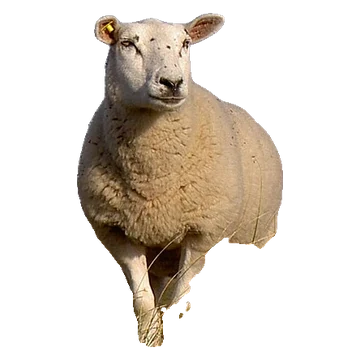
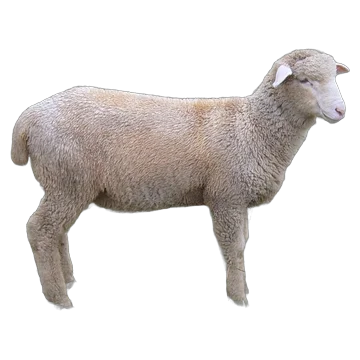
Guncelleme Çar 18.11.2026 11:27

diff --git a/js/act/bubbles.js b/js/act/bubbles.js
@@ -1,0 +1,162 @@
+/* =========================================================
+   BALONCUK PATLAT (su altı) — denizin dibinden sabun köpüğü gibi
+   parlak baloncuklar yükselir; dokununca "blop" diye patlar.
+   - Boş baloncuk: sırayla sayılır (Bir! İki! ... On! → kutlama)
+   - İçinde deniz hayvanı olan baloncuk: hayvan kurtulup yüzerek gider,
+     gerçek sesi (balina, fok, penguen) ve adı söylenir; renkli köpek balığının rengi söylenir.
+   Sesler sıraya girer: üst üste binmez, sayılar atlanmaz (Kedi Koşusu ile aynı düzen).
+   Tanıtım yok — oyun hemen başlar (Cem'in isteği).
+   ========================================================= */
+G.activities.bubbles = () => {
+  const { $, rand } = G;
+  const id = G.newFlow();
+
+  // Baloncuklardan çıkan deniz hayvanları (yalnızca gerçek sesi/adı kayıtlı olanlar)
+  const SHARK_COLORS = COLORS.filter(c => ['red', 'blue', 'yellow', 'green', 'orange', 'pink', 'purple'].includes(c.key));
+  const SEA = [
+    { e: '🐋', snd: 'whale', tr: 'Balina', en: 'Whale', face: 1 },
+    { e: '🦭', snd: 'seal', tr: 'Fok', en: 'Seal', face: -1 },
+    { e: '🐧', snd: 'penguin', tr: 'Penguen', en: 'Penguin', face: 0 }
+  ];
+  function randomFriend() {
+    if (Math.random() < 0.55) {
+      const c = rand(SHARK_COLORS);
+      return { src: tintSrc('shark', c.key), tr: c.tr + ' köpek balığı', en: c.en + ' shark', face: 1 };
+    }
+    const s = rand(SEA);
+    return { src: imgSrc(s.e), snd: s.snd, tr: s.tr, en: s.en, face: s.face };
+  }
+
+  // Ses ve konuşmaları önceden yükle (ilk dokunuşta gecikme olmasın)
+  AnimalSounds.preload(SEA.map(s => s.snd));
+  Speech.preload(COUNT_TR.map(n => [n + '!', 'tr-TR']).concat(COUNT_EN.map(n => [n + '!', 'en-US']))
+    .concat(SEA.map(s => [s.tr + '!', 'tr-TR']), SEA.map(s => [s.en + '!', 'en-US']))
+    .concat(SHARK_COLORS.map(c => [c.tr + ' köpek balığı!', 'tr-TR']), SHARK_COLORS.map(c => [c.en + ' shark!', 'en-US'])));
+
+  let deco = '';
+  for (let i = 0; i < 16; i++) deco += `<span class="ocean-bubble" style="left:${Math.random() * 100}%;animation-delay:${-Math.random() * 7}s;--s:${0.4 + Math.random() * 0.8}"></span>`;
+  const root = G.screen('bubblegame theme-ocean', G.topbar(`${pic('🫧', 'title-ic')} Baloncuk Patlat <small>Pop the Bubbles</small>`,
+    `<div class="counter" id="cnt"><b>0</b><span class="mini-bubble"></span></div>`) + `
+    <div class="ocean-deco"><div class="rays"></div>${deco}
+      <div class="bg-fish f1">${pic('🐠')}</div><div class="bg-fish f2">${pic('🐟')}</div><div class="bg-fish f3">${pic('🐠')}</div>
+      <div class="seabed">${pic('🪸', 'sb s1')}${pic('🌿', 'sb s2')}${pic('🐚', 'sb s3')}${pic('🪸', 'sb s4')}${pic('🐙', 'sb s5')}${pic('🦀', 'sb s6')}</div>
+    </div>
+    <div class="pop-field" id="field"></div>`);
+  G.bindHome(root);
+  const field = $('#field');
+  const bubbles = [];
+  let count = 0, nextSpawn = 0.2, last = performance.now();
+
+  /* Ses kuyruğu (en fazla 6 iş) */
+  let queue = Promise.resolve(), pending = 0;
+  function enqueue(job) {
+    if (pending >= 6) return false;
+    pending++;
+    queue = queue.then(async () => {
+      try { if (G.alive(id)) await job(); } catch (e) { /* yoksay */ }
+      pending--;
+    });
+    return true;
+  }
+
+  function spawn() {
+    const size = 110 + Math.random() * 100;
+    const el = document.createElement('button');
+    el.className = 'sbubble';
+    const friend = Math.random() < 0.25 ? randomFriend() : null;
+    el.innerHTML = '<span class="shine"></span>' + (friend ? `<img class="inside" src="${friend.src}" alt="" draggable="false">` : '');
+    el.style.width = size + 'px';
+    el.style.height = size + 'px';
+    el.style.setProperty('--hue', Math.floor(Math.random() * 360) + 'deg');
+    field.appendChild(el);
+    const b = {
+      el, friend, size,
+      x: 0.08 + Math.random() * 0.84, y: field.clientHeight + size,
+      vy: 55 + Math.random() * 55 + Math.min(count, 30), age: 0,
+      ph: Math.random() * 6, sway: 14 + Math.random() * 20, dead: false
+    };
+    el.addEventListener('pointerdown', (e) => {
+      e.preventDefault();
+      if (b.y > field.clientHeight - b.size * 0.6) return; // baloncuk henüz görünmüyor
+      popIt(b);
+    });
+    bubbles.push(b);
+  }
+
+  function popIt(b) {
+    if (b.dead) return;
+    b.dead = true;
+    Sounds.bubble();
+    const r = b.el.getBoundingClientRect();
+    const cx = r.left + r.width / 2, cy = r.top + r.height / 2;
+    // minik köpükler etrafa saçılır
+    for (let i = 0; i < 12; i++) {
+      const d = document.createElement('div');
+      d.className = 'froth';
+      const s = 8 + Math.random() * 16;
+      d.style.width = d.style.height = s + 'px';
+      d.style.left = cx + 'px';
+      d.style.top = cy + 'px';
+      const a = Math.random() * Math.PI * 2, dist = r.width * (0.35 + Math.random() * 0.45);
+      d.style.setProperty('--tx', Math.cos(a) * dist + 'px');
+      d.style.setProperty('--ty', Math.sin(a) * dist - 30 + 'px');
+      G.fx.appendChild(d);
+      setTimeout(() => d.remove(), 800);
+    }
+    b.el.classList.add('popped');
+    setTimeout(() => b.el.remove(), 260);
+
+    if (b.friend) {
+      const f = b.friend;
+      // hayvan kurtulur, ekranın kenarına doğru yüzer
+      const dir = cx < innerWidth / 2 ? -1 : 1;
+      const sw = document.createElement('div');
+      sw.className = 'swim-away';
+      sw.innerHTML = `<img src="${f.src}" alt="" draggable="false">`;
+      sw.style.left = cx + 'px';
+      sw.style.top = cy + 'px';
+      sw.style.setProperty('--dx', dir * (innerWidth * 0.7) + 'px');
+      sw.style.setProperty('--flip', f.face && f.face !== dir ? -1 : 1);
+      G.fx.appendChild(sw);
+      setTimeout(() => sw.remove(), 3000);
+      enqueue(async () => {
+        if (f.snd) { await AnimalSounds.play(f.snd); if (!G.alive(id)) return; }
+        await Speech.seq(G.both(f.tr + '!', f.en + '!'));
+      });
+      return;
+    }
+
+    // boş baloncuk: sayı (kuyruk doluysa sayı atlanmaz, hiç eklenmez)
+    const n = count + 1 > 10 ? 1 : count + 1;
+    if (!enqueue(async () => {
+      await Speech.seq(G.both(COUNT_TR[n - 1] + '!', COUNT_EN[n - 1] + '!'));
+      if (n === 10 && G.alive(id)) { G.confetti(90); await G.celebrate({ big: true }); }
+    })) return;
+    count = n;
+    const cnt = $('#cnt b');
+    if (cnt) { cnt.textContent = count; G.anim($('#cnt'), 'boom'); }
+  }
+
+  function loop(now) {
+    if (!G.alive(id)) return;
+    const dt = Math.min(0.05, (now - last) / 1000);
+    last = now;
+    nextSpawn -= dt;
+    if (nextSpawn <= 0 && bubbles.length < 8) { spawn(); nextSpawn = 0.6 + Math.random() * 0.7; }
+    const W = field.clientWidth, H = field.clientHeight;
+    for (let i = bubbles.length - 1; i >= 0; i--) {
+      const b = bubbles[i];
+      if (b.dead) { bubbles.splice(i, 1); continue; }
+      // alttan hızlı çıkar, sonra yavaşça yükselir (ekrana girmeden patlatılamaz)
+      b.age += dt;
+      b.y -= (b.vy + H * 1.1 * Math.exp(-b.age * 3)) * dt;
+      b.ph += dt * 1.8;
+      const x = b.x * W + Math.sin(b.ph) * b.sway - b.size / 2;
+      const sq = 1 + Math.sin(b.ph * 2.3) * 0.04; // baloncuk hafifçe esner
+      b.el.style.transform = `translate(${x}px, ${b.y}px) scale(${sq}, ${2 - sq})`;
+      if (b.y < -b.size * 1.4) { b.el.remove(); bubbles.splice(i, 1); }
+    }
+    requestAnimationFrame(loop);
+  }
+  requestAnimationFrame(loop);
+};

diff --git a/css/style.css b/css/style.css
@@ -607,3 +607,32 @@ img { -webkit-user-drag: none; }
 .tile-placeholder { opacity: .25; outline: 4px dashed rgba(255,255,255,.9); outline-offset: -6px; }
 .order-hint { text-align: center; opacity: .7; font-size: clamp(12px, 1.8vmin, 15px); margin: 18px 0 6px; }
 .tiles .tile { -webkit-touch-callout: none; user-select: none; }
+
+/* ---------- Baloncuk Patlat (su altı) ---------- */
+.bubblegame { padding: 0; }
+.bubblegame .topbar { padding: 10px 14px 0; position: relative; z-index: 5; }
+.bubblegame .pop-field { z-index: 3; }
+.mini-bubble { display: inline-block; width: 1.1em; height: 1.1em; border-radius: 50%; margin-left: 6px; vertical-align: -0.15em;
+  border: 2px solid rgba(120,200,255,.9); background: radial-gradient(circle at 32% 30%, #fff 0 18%, rgba(160,220,255,.35) 40%, transparent 70%); }
+.sbubble { position: absolute; left: 0; top: 0; padding: 0; border-radius: 50%; will-change: transform; overflow: hidden;
+  border: 3px solid rgba(255,255,255,.75);
+  background:
+    radial-gradient(circle at 50% 55%, transparent 52%, hsla(calc(var(--hue) + 0deg), 90%, 75%, .45) 64%, hsla(calc(var(--hue) + 120deg), 90%, 75%, .55) 72%, transparent 76%),
+    radial-gradient(circle at 50% 50%, rgba(255,255,255,.08), rgba(255,255,255,.22) 70%, rgba(255,255,255,.55) 100%);
+  box-shadow: inset 0 0 18px rgba(255,255,255,.45), 0 6px 18px rgba(0,30,80,.18); }
+.sbubble .shine { position: absolute; left: 18%; top: 14%; width: 30%; height: 20%; border-radius: 50%;
+  background: radial-gradient(ellipse at center, rgba(255,255,255,.95), rgba(255,255,255,0) 70%); transform: rotate(-30deg); }
+.sbubble::after { content: ''; position: absolute; right: 20%; bottom: 16%; width: 12%; height: 12%; border-radius: 50%; background: rgba(255,255,255,.6); }
+.sbubble .inside { position: absolute; left: 15%; top: 15%; width: 70%; height: 70%; object-fit: contain; animation: wiggle 2.2s ease-in-out infinite; }
+.sbubble.popped { opacity: 0; transition: opacity .2s, width .2s, height .2s; }
+.froth { position: absolute; border-radius: 50%; margin: -8px 0 0 -8px; border: 2px solid rgba(255,255,255,.85);
+  background: radial-gradient(circle at 30% 30%, rgba(255,255,255,.8), transparent 60%); animation: burst .8s ease-out forwards; z-index: 50; }
+.swim-away { position: absolute; width: 150px; height: 150px; margin: -75px 0 0 -75px; z-index: 40; animation: swimAway 2.9s ease-in forwards; }
+.swim-away img { width: 100%; height: 100%; object-fit: contain; transform: scaleX(var(--flip, 1)); animation: wiggle 1s ease-in-out infinite; }
+@keyframes swimAway { 0% { transform: translate(0, 0) scale(.6); opacity: 0; } 12% { transform: translate(0, -10px) scale(1.15); opacity: 1; }
+  35% { transform: translate(calc(var(--dx) * .15), 0) scale(1.1); } 100% { transform: translate(var(--dx), -40px) scale(1); opacity: 0; } }
+.bg-fish { position: absolute; width: clamp(50px, 9vmin, 90px); height: clamp(50px, 9vmin, 90px); opacity: .8; animation: bgSwim 18s linear infinite; }
+.bg-fish .pic { width: 100%; height: 100%; }
+.bg-fish.f1 { top: 30%; } .bg-fish.f2 { top: 52%; animation-duration: 24s; animation-delay: -9s; } .bg-fish.f3 { top: 68%; animation-duration: 21s; animation-delay: -15s; }
+@keyframes bgSwim { from { transform: translateX(110vw); } to { transform: translateX(-20vw); } }
+.bubblegame .counter { color: var(--ink); }

diff --git a/sw.js b/sw.js
@@ -3,8 +3,8 @@
    - Görsel ve sesler: önce önbellek (anında açılır), yoksa indirip saklar
    - Kurulumdan sonra tüm görseller ve efekt sesleri arka planda yavaşça indirilir
    SURUM değeri tools/sw_liste.py ile otomatik güncellenir. */
-const SURUM = '1717303fca';
-const KOD = 'alen-kod-' + SURUM, MEDYA = 'alen-medya-v1';
+const SURUM = 'dbee09d7fa';
+const KOD = 'alen-kod-' + SURUM, MEDYA = 'alen-medya-v2';
 importScripts('sw_liste.js');
 
 const KABUK = ['./', 'index.html', 'css/style.css', 'manifest.json', 'audio/voice/index.js',
@@ -18,7 +18,7 @@ self.addEventListener('install', e => {
 self.addEventListener('activate', e => {
   e.waitUntil((async () => {
     const adlar = await caches.keys();
-    await Promise.all(adlar.filter(a => a.startsWith('alen-kod-') && a !== KOD).map(a => caches.delete(a)));
+    await Promise.all(adlar.filter(a => a !== KOD && a !== MEDYA).map(a => caches.delete(a)));
     await self.clients.claim();
     isit(); // arka planda görselleri/efektleri indir
   })());

diff --git a/js/animalsounds.js b/js/animalsounds.js
@@ -3,7 +3,7 @@
    Bilgisayarla üretilmiş (sentez) ses yoktur. Gerçek kaydı olmayan
    anahtar sessiz geçer; böyle bir hayvan oyuna eklenmemelidir.
    Kaynaklar:
-   - ESC-50 veri seti (K. J. Piczak): dog, cat, cow, sheep, hen, rooster, frog, pig, crow,
+   - ESC-50 veri seti (K. J. Piczak): dog, cat, cow, sheep, hen, rooster, frog, crow,
      chirping_birds, insects, car_horn, siren, train, airplane, helicopter, clapping
    - BBC Sound Effects (RemArc lisansı, kişisel/ev kullanımı): duck, horse, lion,
      elephant, monkey, owl, chick, howl, bear, fox, goat, donkey, turkey, goose, wolf, tiger, cuckoo,
@@ -39,7 +39,6 @@ const AnimalSounds = (() => {
     fox: { f: ['fox_1', 'fox_2'] },
     frog: { f: ['frog_1', 'frog_3'] },
     goat: { f: ['goat_1', 'goat_2'] },
-    pig: { f: ['pig_1', 'pig_2', 'pig_3'] },
     donkey: { f: ['donkey_1', 'donkey_2'] },
     turkey: { f: ['turkey_1'] },
     goose: { f: ['goose_1'] },

diff --git a/js/data.js b/js/data.js
@@ -44,7 +44,6 @@ const ANIMALS = [
   { tr: 'Arı', en: 'Bee', emoji: '🐝', sound: 'Vızzz!', snd: 'bee' },
   { tr: 'Tilki', en: 'Fox', emoji: '🦊', snd: 'fox' },
   { tr: 'Keçi', en: 'Goat', emoji: '🐐', snd: 'goat' },
-  { tr: 'Domuz', en: 'Pig', emoji: '🐷', snd: 'pig' },
   { tr: 'Eşek', en: 'Donkey', emoji: '🫏', snd: 'donkey' },
   { tr: 'Hindi', en: 'Turkey', emoji: '🦃', snd: 'turkey' },
   { tr: 'Kaz', en: 'Goose', emoji: '🪿', snd: 'goose' },
@@ -292,6 +291,7 @@ const ACTIVITIES = [
   { id: 'homes', tr: 'Hayvan Evleri', en: 'Animal Homes', icon: '🏡' },
   { id: 'sling', tr: 'Sapan', en: 'Slingshot', icon: '🎯' },
   { id: 'pop', tr: 'Balon Patlat', en: 'Pop Balloons', icon: '🎈' },
+  { id: 'bubbles', tr: 'Baloncuk Patlat', en: 'Pop the Bubbles', icon: '🫧' },
   { id: 'blow', tr: 'Balonu Üfle', en: 'Blow It Up', icon: '🌬' }
 ];
 

diff --git a/js/sounds.js b/js/sounds.js
@@ -94,6 +94,16 @@ const Sounds = (() => {
     tone(600, 0, 0.12, 'sine', 0.2, 120);
   }
 
+  // Su altı baloncuk "blop" sesi: yükselen yumuşak ton + çok kısa su şıpırtısı
+  function bubble() {
+    init();
+    if (!ctx) return;
+    const f = 260 + Math.random() * 160;
+    tone(f, 0, 0.13, 'sine', 0.32, f * 3.2);
+    tone(f * 1.5, 0.02, 0.08, 'sine', 0.12, f * 4);
+    noise(0.01, 0.06, 0.12, 1800, 1.2);
+  }
+
   // Dokunma sesi
   function tap() {
     init();
@@ -124,7 +134,7 @@ const Sounds = (() => {
   }
 
   return {
-    init, applause, fanfare, wrong, pop, tap, whoosh, crunch, gulp,
+    init, applause, fanfare, wrong, pop, bubble, tap, whoosh, crunch, gulp,
     getCtx: () => { init(); return ctx; },
     getNoise: () => { init(); return noiseBuf; },
     hasFile: () => false,

diff --git a/index.html b/index.html
@@ -49,6 +49,7 @@
   <script src="js/act/sling.js"></script>
   <script src="js/act/blow.js"></script>
   <script src="js/act/pop.js"></script>
+  <script src="js/act/bubbles.js"></script>
   <!-- Başlangıç (en son) -->
   <script src="js/home.js"></script>
   <!-- Oyunu cihaza kaydet: sonraki açılışlar anında, görseller/sesler önbellekten -->

diff --git a/js/images.js b/js/images.js
@@ -181,7 +181,6 @@ Object.assign(IMG, {
   "🐈⬛": "real/blackcat",
   "🦈": "real/shark",
   "🐐": "real/goat",
-  "🐷": "real/pig",
   "🫏": "real/donkey",
   "🦃": "real/turkey",
   "🪿": "real/goose",

diff --git a/GELISTIRME_GUNLUGU.md b/GELISTIRME_GUNLUGU.md
@@ -4,6 +4,51 @@
 
 ---
 
+## Aşama 14 — Yeni oyun: Baloncuk Patlat (su altı)
+**Tarih:** 18.11.2026
+
+**İstek (Cem):** Oyuna bir de suyun altında baloncuk patlatma oyunu ekleyelim.
+
+**Yapılanlar:**
+- `js/act/bubbles.js`: okyanus sahnesi (ışık huzmeleri, kum, mercan, yengeç, ahtapot, arkada yüzen balıklar).
+  Dipten gökkuşağı yansımalı sabun köpüğü baloncuklar yükselir, hafifçe esner. Balon Patlat'taki gibi önce hızlı çıkar,
+  sonra yavaşlar; ekrana girmeden patlatılamaz.
+- Dokununca "blop" sesiyle patlar, etrafa minik köpükler saçılır. Boş baloncuklar sırayla sayılır (Bir... On → kutlama).
+- Baloncukların %25'inde deniz hayvanı vardır: renkli köpek balığı (rengiyle söylenir), balina, fok, penguen
+  (gerçek sesi + adı). Patlayınca hayvan kurtulup ekranın kenarına doğru yüzer.
+- Sesler kuyrukta (en fazla 6): üst üste binmez, sayılar atlanmaz. Tanıtım konuşması yok; oyun hemen başlar.
+- Yeni konuşma kaydı gerekmedi: sayılar, hayvan adları ve renkli köpek balıkları zaten Piku ile kayıtlıydı.
+- `Sounds.bubble()`: kısa yükselen "blop" efekti (konuşma değil, efekt).
+- Ana sayfaya "Baloncuk Patlat 🫧" kartı eklendi. Kaydedilmiş sıralamada yoksa sona eklenir, basılı tutup taşınabilir.
+
+**Değişen dosyalar:** `js/act/bubbles.js` (yeni), `js/sounds.js`, `js/data.js`, `index.html`, `css/style.css`, `sw.js`/`sw_liste.js`,
+README, DEVAM_NOTLARI, bu günlük.
+
+**Test durumu:** Headless Chrome, 400×800 ve 1024×700: ~33 baloncuk patlatıldı, sayılar sırayla, hayvan sesleri ve adları
+çaldı, sayfa hatası yok. Ekran görüntüleri kontrol edildi.
+
+---
+
+## Aşama 13 — Domuz kaldırıldı, koyun fotoğrafı yenilendi
+**Tarih:** 18.11.2026
+
+**İstek (Cem):** "Kim bu"da domuzun sesi çıkmıyor, domuzu tamamen kaldır. Koyunun arka bacakları yok.
+
+**Yapılanlar:**
+- Domuz `ANIMALS` listesinden, `animalsounds.js` REAL haritasından ve `images.js` gerçek fotoğraf bloğundan çıkarıldı → 36 hayvan.
+  (`pig_*.mp3` ve `real/pig.webp` dosyaları klasörde duruyor ama artık kullanılmıyor.)
+- Koyun: eski fotoğrafta arka bacaklar otun içinde kayboluyordu. Wikimedia Commons'tan yandan çekilmiş, dört bacağı görünen
+  Columbia kuzusu (Ewe lamb, Columbia breed.jpg) alındı, rembg ile arka planı temizlendi → `assets/img/real/sheep.webp`. KAYNAK.txt güncellendi.
+- Aynı adlı görsel değiştiği için servis çalışanının medya önbelleği `alen-medya-v2` yapıldı; eski önbellek otomatik silinir.
+
+**Değişen dosyalar:** `js/data.js`, `js/animalsounds.js`, `js/images.js`, `assets/img/real/sheep.webp`, `assets/img/real/KAYNAK.txt`,
+`sw.js`, `sw_liste.js`, DEVAM_NOTLARI, bu günlük.
+
+**Test durumu:** Headless Chrome: 36 hayvan, domuz yok, sesi olmayan hayvan yok; Kim Bu Ses?, Hayvanlar, Hayvan Evleri,
+Yumurtalar hatasız açıldı. Yeni koyun görseli kontrol edildi (dört bacak görünür).
+
+---
+
 ## Aşama 12 — Hız: sesler gecikmesiz, açılış ve görseller hızlı (ortak ses motoru + önbellek)
 **Tarih:** 18.11.2026
 

diff --git a/README.md b/README.md
@@ -18,7 +18,7 @@ yanlışta kısa **"Hayıııır!"** (hemen yeniden denenebilir). 2 yanlıştan 
 | Renkler | 10 renk, havada süzülen 3D balonlarla |
 | Sayılar | 1–10, **parmaklarla tek tek sayarak** |
 | Kediler | Mutlu, gülen, seven, şaşkın, üzgün, kızgın kediler — her biri farklı tonda miyavlar |
-| Hayvanlar | 37 hayvan (hepsi gerçek sesli ve gerçek fotoğraflı); önce hayvanın **gerçek sesi**, sonra adı söylenir |
+| Hayvanlar | 36 hayvan (hepsi gerçek sesli ve gerçek fotoğraflı); önce hayvanın **gerçek sesi**, sonra adı söylenir |
 | Kim Bu Ses? | Hayvan sesi çalar, çocuk sesin sahibini bulur |
 | Köpek Balıkları | Okyanus sahnesinde yüzen **renkli köpek balıkları** |
 | Arabalar | Polis, ambulans, itfaiye (siren), taksi, yarış arabası, renkli arabalar |
@@ -39,6 +39,7 @@ yanlışta kısa **"Hayıııır!"** (hemen yeniden denenebilir). 2 yanlıştan 
 | **Yumurta Sürprizi** | Renkli yumurtaya **bir kez** dokun, çatlasın; içinden civciv, ördek, kedi, baykuş... çıksın. Gerçek sesi ve adı duyulur; art arda dokununca sesler sıraya girer, hiçbiri atlanmaz. |
 | **Hayvan Evleri** | Doğrudan oyun: hayvanı **parmakla doğru evine sürükle** (ya da eve dokun). Doğru evde "Ördek gölde yaşar" denir; iki yanlışta doğru ev parlar. |
 | **Balon Patlat** | Renkli balonlar aşağıdan sürekli uçar, dokununca patlar; bazılarının altında sürpriz hayvan vardır. |
+| Baloncuk Patlat 🫧 | Su altında yükselen baloncuklara dokun: blop! Boş baloncuklar sayılır, içindeki köpek balığı, balina, fok, penguen kurtulup yüzer |
 | **Sapan** | Sapan ekranın altında: hayvanı **kendine doğru geri çek** — nişanlanan balon parlak halkayla gösterilir — **bırak** → hayvan tam o balona uçar. Dikey ve yatay ekranda balonlar hep görünür. Balona dokunmak da otomatik atış yapar. |
 | **Balonu Üfle** | Mikrofona üfledikçe balon şişer ve patlar (ağız-dudak kaslarını çalıştırır). |
 
@@ -102,7 +103,7 @@ js/core.js            Ortak altyapı: ekran, konfeti, kutlama, eller (parmak)
 js/learn.js           Öğren + soru-cevap motoru
 js/home.js            Başla ekranı, ana sayfa, ayarlar
 js/act/*.js           Oyunlar: catrun, imitate (Konuşalım + Ses Taklidi), parrot,
-                      dance, feed, fingers, eggs, homes, sling, pop, blow
+                      dance, feed, fingers, eggs, homes, sling, pop, bubbles, blow
 assets/img/real/      Gerçek hayvan fotoğrafları (KAYNAK.txt)
 assets/sfx/           Gerçek hayvan/taşıt sesleri ve alkış (ESC-50 + BBC Sound Effects)
 audio/voice/          ElevenLabs (Piku) konuşma kayıtları + index.js

diff --git a/DEVAM_NOTLARI.md b/DEVAM_NOTLARI.md
@@ -52,7 +52,7 @@
 | Mikrofon gerektiren adımlar asla sonsuza kadar beklemez | Çocuk tek başına oynar; mikrofon/izin yoksa birkaç saniye sonra kendiliğinden devam |
 | Tüm sesler `AudioCache` (Web Audio, tek bağlam, çözülmüş tampon önbelleği) ile çalar; yeni `new Audio()` açılmaz | Telefonda her `<audio>` bir oynatıcı tutuyor, sınır dolunca sesler gecikiyor/çalmıyordu. Yeni ses eklenen yerde bölüm açılırken `AnimalSounds.preload([...])` / `Speech.preload([[metin, dil]])` çağır |
 | Açılışta dosya varlığı yoklanmaz | 55 boş istek açılışı yavaşlatıyordu; isteğe bağlı `sounds/` kayıt desteği kaldırıldı |
-| Servis çalışanı (`sw.js`): kod ağ-önce, medya önbellek-önce | Kod güncellemeleri hemen gelsin, görsel/sesler anında açılsın. **Görsel/ses eklenince `python tools/sw_liste.py` çalıştır** (liste + sürüm). Medya önbelleği `alen-medya-v1`: aynı adla dosya DEĞİŞTİRİLİRSE bu adı v2 yap |
+| Servis çalışanı (`sw.js`): kod ağ-önce, medya önbellek-önce | Kod güncellemeleri hemen gelsin, görsel/sesler anında açılsın. **Görsel/ses eklenince `python tools/sw_liste.py` çalıştır** (liste + sürüm). Medya önbelleği `alen-medya-vN` (şu an v2): aynı adla dosya DEĞİŞTİRİLİRSE N'yi bir artır (eskisi otomatik silinir) |
 | Yüzdelik `padding` kullanılmaz | Yüzde, düğme yerine kapsayıcı genişliğine göre hesaplanıyor → görseller küçülüyordu |
 
 ## Yayın
@@ -84,8 +84,10 @@
 - Konuşma kayıtları (16 MB) arka planda topluca indirilmez, yalnızca bölüm açılınca o bölümünkiler; ilk açılışta internet yoksa çalmaz.
 
 ## Sonraki adımlar / fikirler
+- Baloncuk Patlat'a başka deniz hayvanları (balık, ahtapot, yengeç, kaplumbağa, yunus) eklenebilir. Bunun için ElevenLabs'te adları (TR/EN) seslendirilmeli; Fluent görselleri hazır.
+- İstenirse baloncuk "blop" efekti için BBC'den gerçek su kabarcığı kaydı.
 - Taşıtlar için gerçek kayıt (motor, gemi düdüğü, bisiklet zili, traktör, roket).
-- İstenirse daha fazla hayvan: deve, yunus, su aygırı, ağaçkakan, fare için temiz kayıt aranabilir.
+- İstenirse daha fazla hayvan: deve, yunus, su aygırı, ağaçkakan, fare için temiz kayıt aranabilir. Domuz Cem'in isteğiyle çıkarıldı (sesi çalmıyordu); geri eklenirse yeni temiz kayıt gerekir.
 - ElevenLabs 2. hesapta ~2.570 kredi kaldı (18.11.2026).
 - Anne-baba sesiyle "aferin", "hayır" ve kelime kayıtları (ayarlardan kayıt alma özelliği eklenebilir).
 - İlerleme takibi: hangi kelimeleri söylemeye çalıştı, kaç lokma yedi (ebeveyn paneli).
